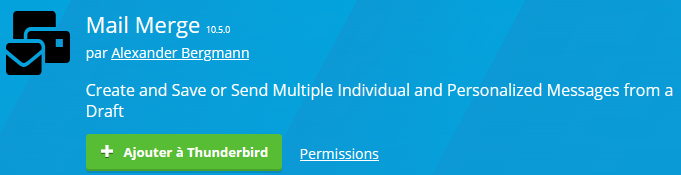
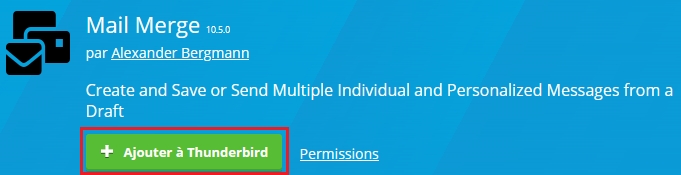
MAJ article Publipostage mail Thunderbird Mail Merge

Changed region(s): [[0.0925, 0.7143, 0.4317, 1.0]]

diff --git a/_tutoriels/Thunderbird - Publipostage mail avec Mail Merge.md b/_tutoriels/Thunderbird - Publipostage mail avec Mail Merge.md
@@ -45,9 +45,13 @@ Dans le cas où Mail Merge n'est pas présent dans la liste, procéder comme cec
 L'extension Mail Merge devrait apparaitre dans la liste des résultats (à droite).
 {: .callout-yellow}
 
-- Vérifier qu'il s'agit de l'extension "Mail Merge" "Alexander Bergmann", puis cliquer sur "Ajouter à Thunderbird". Confirmer si besoin.  
+- Vérifier qu'il s'agit de l'extension "Mail Merge" "Alexander Bergmann", puis cliquer sur "Ajouter à Thunderbird".   
   ![](IMG_Thunderbird%20-%20Publipostage%20mail%20avec%20Mail%20Merge_1.png){:width="500px"}    
-  L'extension Mail Merge est à présent installée.  
+- Si une demande de confirmation apparait, accepter en cliquant sur "Ajouter".  
+  ![](IMG_Thunderbird%20-%20Publipostage%20mail%20avec%20Mail%20Merge_27.png)  
+
+
+L'extension Mail Merge est à présent installée.  
 En cas de besoin, consulter la page [Installer une extension sur Thunderbird (mozilla.org)](https://support.mozilla.org/fr/kb/installer-une-extension-sur-thunderbird){:target="_blank"}.  
 
 ## Utilisation
